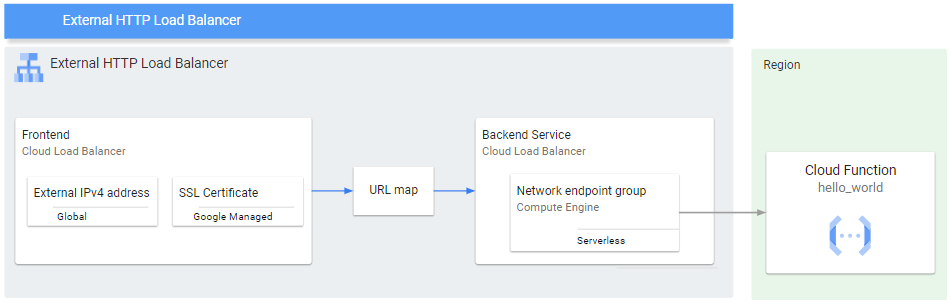
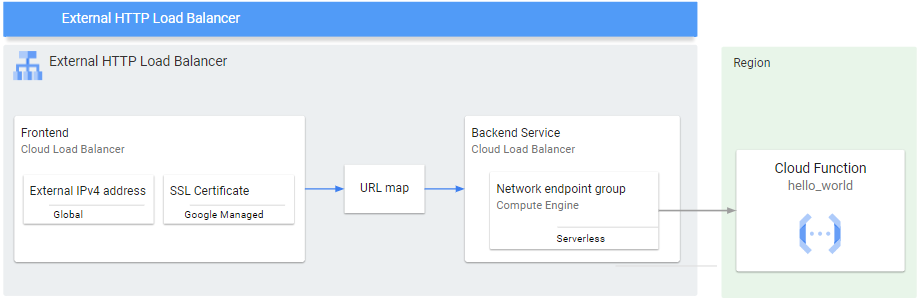
Added diagram for  http-lb README.md file

diff --git a/gcp-templates/modules/http-load-balancer/README.md b/gcp-templates/modules/http-load-balancer/README.md
@@ -1,0 +1,64 @@
+# Project Title
+
+Simple overview of use/purpose.
+
+## Description
+
+An in-depth paragraph about your project and overview of use.
+
+![diagram](https://github.com/rossie-cloud/terraform/blob/main/gcp-templates/modules/http-load-balancer/http-lb-diagram.png)
+
+## Getting Started
+
+### Dependencies
+
+* Describe any prerequisites, libraries, OS version, etc., needed before installing program.
+* ex. Windows 10
+
+### Installing
+
+* How/where to download your program
+* Any modifications needed to be made to files/folders
+
+### Executing program
+
+* How to run the program
+* Step-by-step bullets
+```
+code blocks for commands
+```
+
+## Help
+
+Any advise for common problems or issues.
+```
+command to run if program contains helper info
+```
+
+## Authors
+
+Contributors names and contact info
+
+ex. Dominique Pizzie  
+ex. [@DomPizzie](https://twitter.com/dompizzie)
+
+## Version History
+
+* 0.2
+    * Various bug fixes and optimizations
+    * See [commit change]() or See [release history]()
+* 0.1
+    * Initial Release
+
+## License
+
+This project is licensed under the [NAME HERE] License - see the LICENSE.md file for details
+
+## Acknowledgments
+
+Inspiration, code snippets, etc.
+* [awesome-readme](https://github.com/matiassingers/awesome-readme)
+* [PurpleBooth](https://gist.github.com/PurpleBooth/109311bb0361f32d87a2)
+* [dbader](https://github.com/dbader/readme-template)
+* [zenorocha](https://gist.github.com/zenorocha/4526327)
+* [fvcproductions](https://gist.github.com/fvcproductions/1bfc2d4aecb01a834b46)
